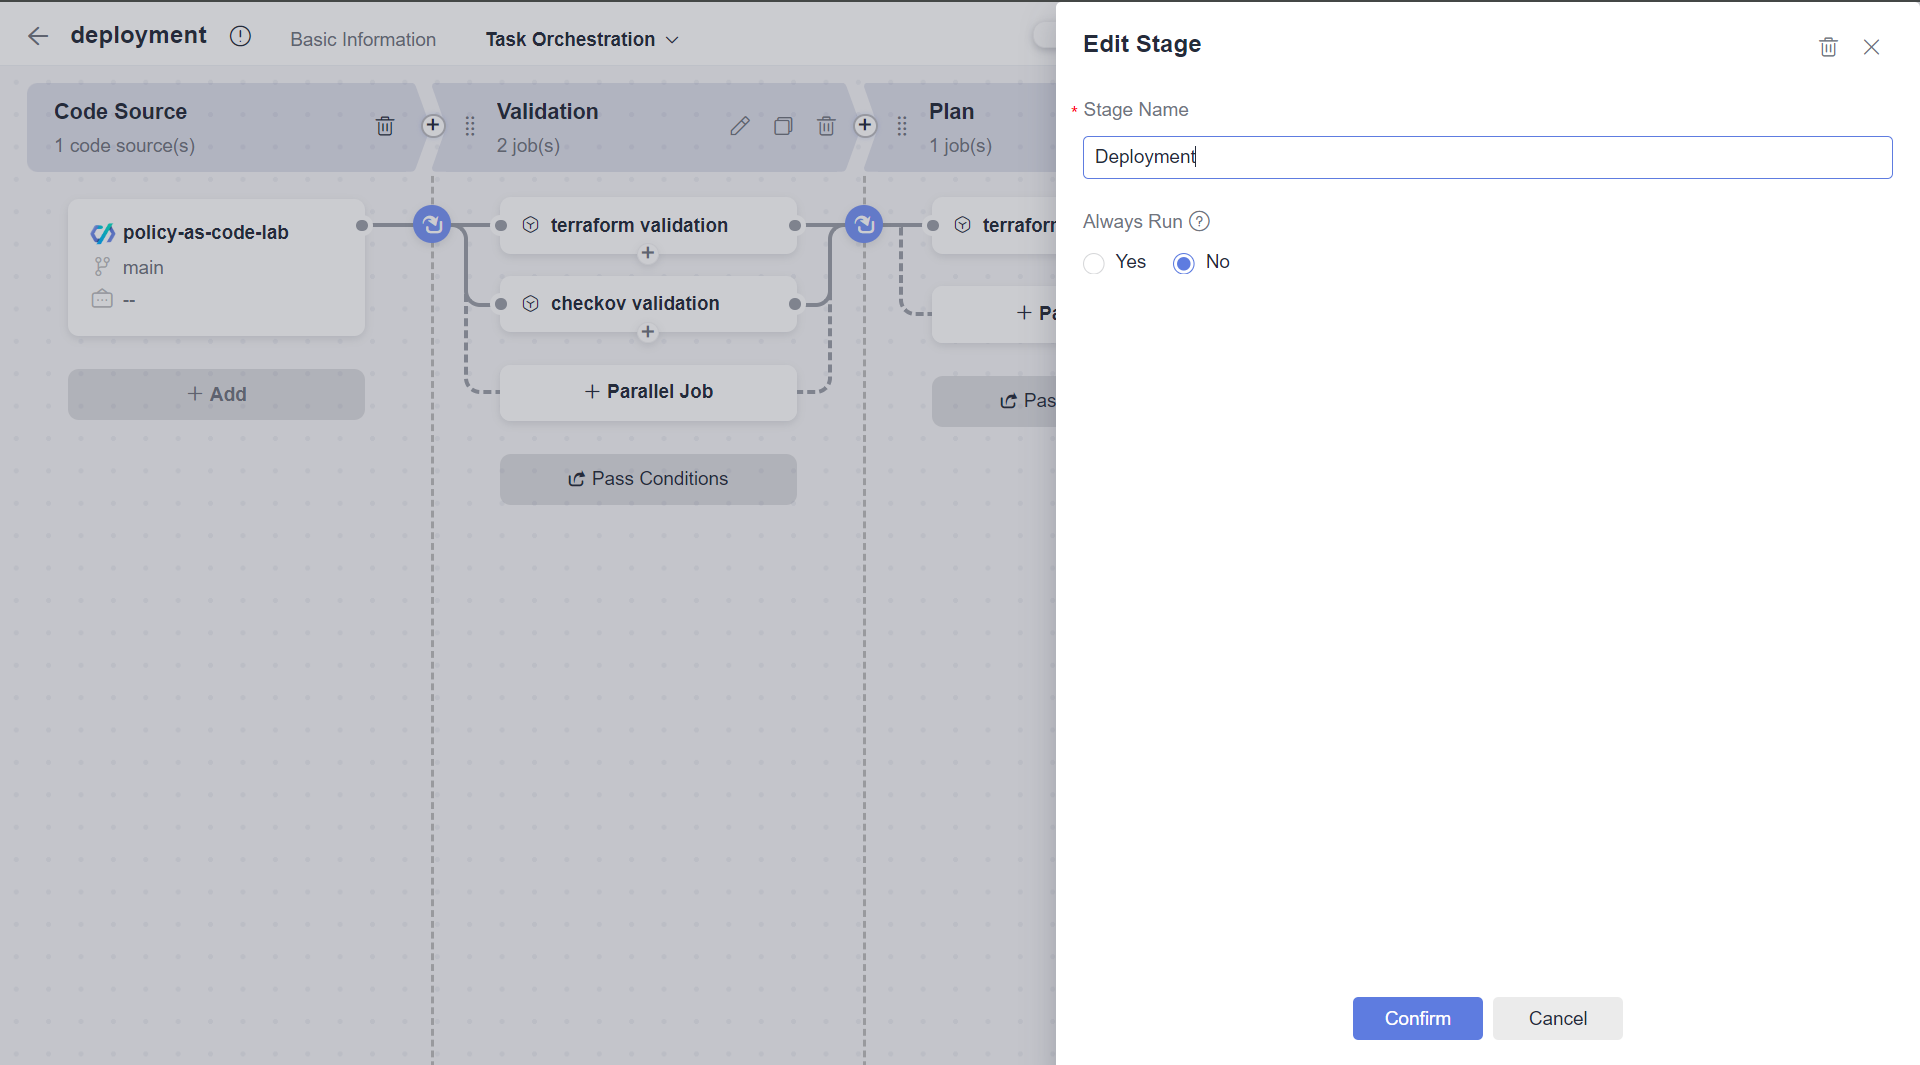
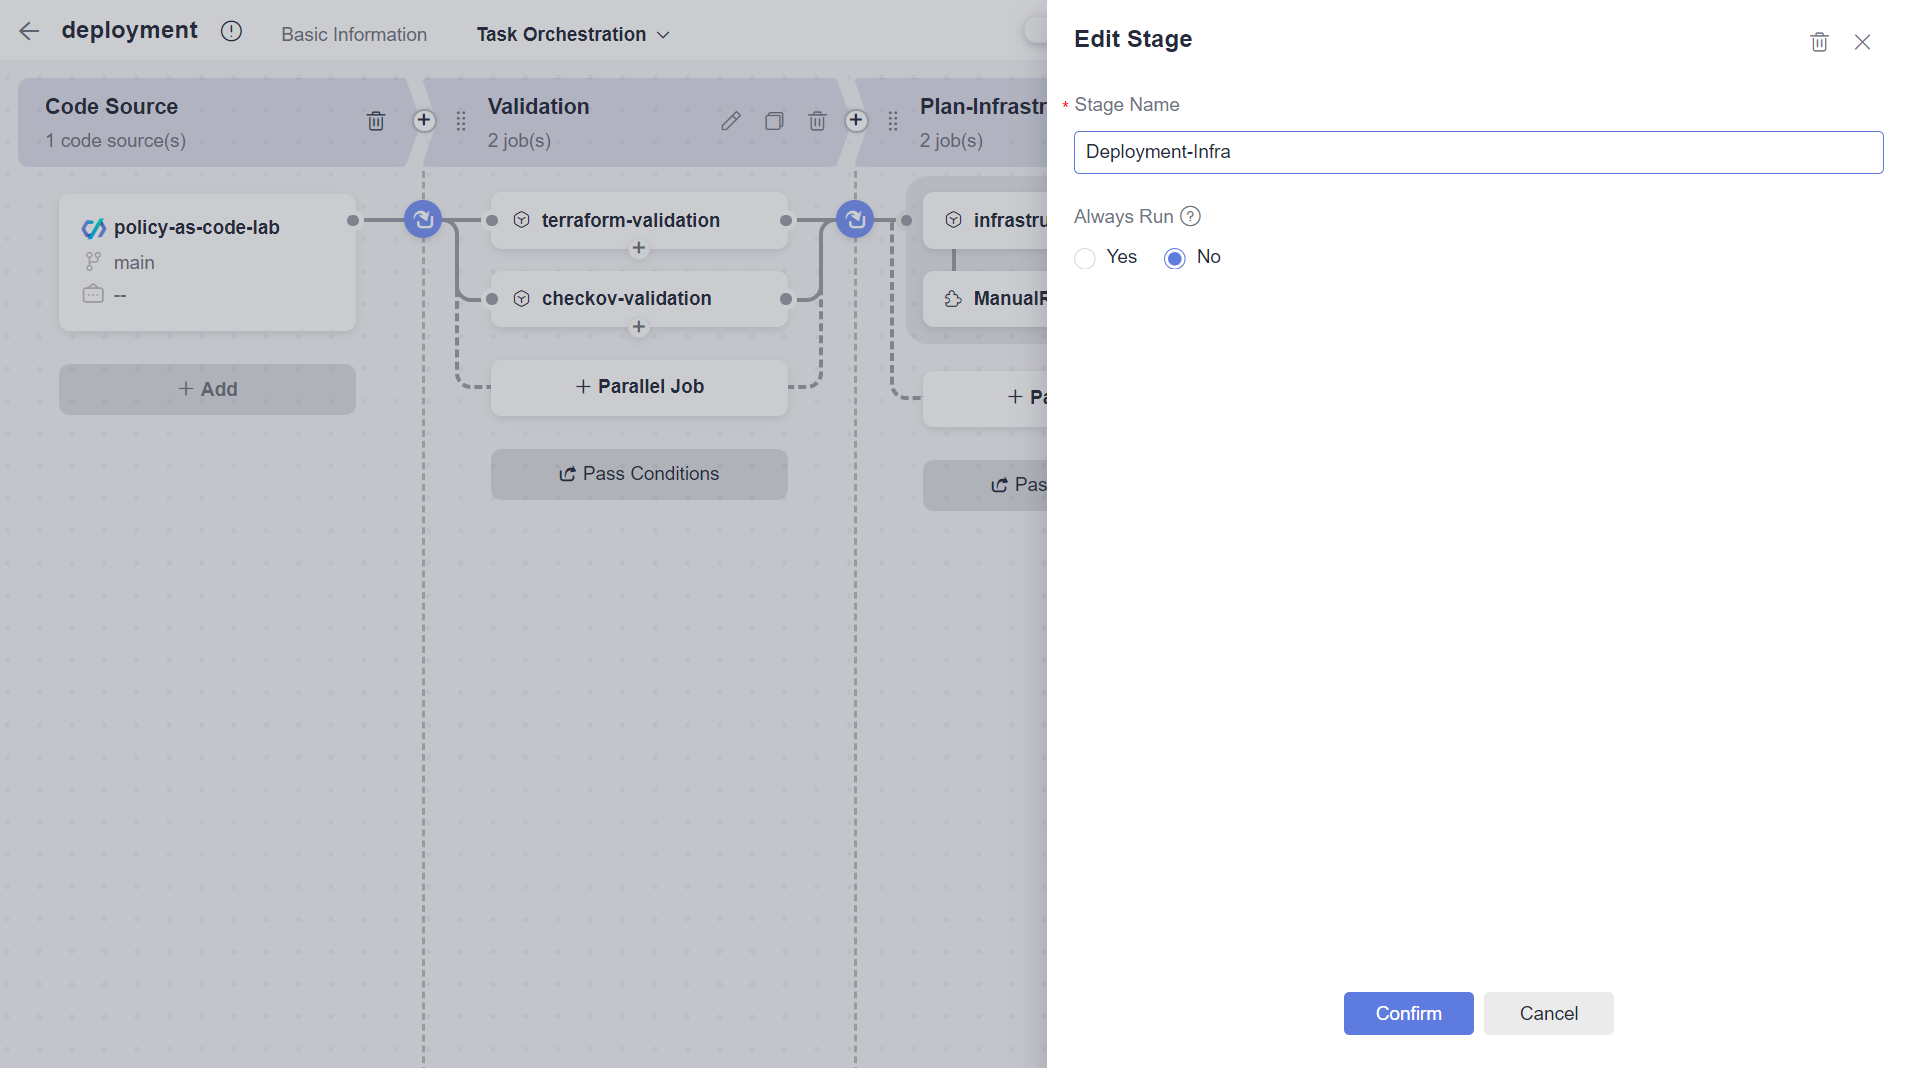
update

diff --git a/README.md b/README.md
@@ -173,28 +173,26 @@ In this workshop, Huawei Cloud OBS is used as the backend of terraform
    * `Action Name`: ```Terrafrom Plan Infrastructure```
    * `Image Address`: ```swr.ap-southeast-3.myhuaweicloud.com/core/ubuntu:codearts1```
    * `Commands`:
-      ````
+      ```
       export HW_ACCESS_KEY=${HW_ACCESS_KEY}
       export HW_SECRET_KEY=${HW_SECRET_KEY}
       export AWS_ACCESS_KEY_ID=${HW_ACCESS_KEY}
       export AWS_SECRET_ACCESS_KEY=${HW_SECRET_KEY}
       terraform -chdir=infrastructure init
-      terraform -chdir=infrastructure plan
-      terraform -chdir=application init
-      terraform -chdir=application plan
+      terraform -chdir=infrastructure -no-color plan
       ```
 ![terrafromplan4](./resources/9-infraterraformplan-3.png)
 4. Save the task
 
-## Creating Terraform Apply Job
+## Creating Terraform Apply Job - infrastructure
 1. On the `CodeArts Build` Page, Click the `...` icon on the `terraform-validation` job to Clone a new job
 ![Terraformplaninfra](./resources/9-infraterraformplan-1.png)
 
-2. Select `Basic Information` tab on the top of the page and Change the name to `terrafrom-apply`
+2. Select `Basic Information` tab on the top of the page and Change the name to `terrafrom-apply-infra`
 ![Terraformapply](./resources/10-infraterraappy-1.png)
 
 3. Select the `Build Actions` tab and the `Terrafrom Validation` job on the left side panel and Change the following the following parameters for the job
-   * `Action Name`: ```Terrafrom Apply```
+   * `Action Name`: ```Terrafrom Apply Infrastructure```
    * `Image Address`: ```swr.ap-southeast-3.myhuaweicloud.com/core/ubuntu:codearts1```
    * `Commands`:
       ````
@@ -204,10 +202,52 @@ In this workshop, Huawei Cloud OBS is used as the backend of terraform
       export AWS_SECRET_ACCESS_KEY=${HW_SECRET_KEY}
       terraform -chdir=infrastructure init
       terraform -chdir=infrastructure apply -auto-approve
+      ```
+![terraformplan1](./resources/10-infraterraappy-2.png)
+4. Save the task
+
+## Creating Terraform Plan Job - Application
+1. On the `CodeArts Build` Page, Click the `...` icon on the `terraform-validation` job to Clone a new job
+![Terraformplaninfra](./resources/9-infraterraformplan-1.png)
+
+2. Select `Basic Information` tab on the top of the page and Change the name to `terrafrom-plan-application`
+![Terraformplaninfra1](./resources/9-infraterraformplan-2.png)
+
+3. Select the `Build Actions` tab and the `Terrafrom Validation` job on the left side panel and Change the following the following parameters for the job
+   * `Action Name`: ```Terrafrom Plan Application```
+   * `Image Address`: ```swr.ap-southeast-3.myhuaweicloud.com/core/ubuntu:codearts1```
+   * `Commands`:
+      ```
+      export HW_ACCESS_KEY=${HW_ACCESS_KEY}
+      export HW_SECRET_KEY=${HW_SECRET_KEY}
+      export AWS_ACCESS_KEY_ID=${HW_ACCESS_KEY}
+      export AWS_SECRET_ACCESS_KEY=${HW_SECRET_KEY}
+      terraform -chdir=application init
+      terraform -chdir=application -no-color plan
+      ```
+![terrafromplan4](./resources/13-appplan-1.png)
+4. Save the task
+
+## Creating Terraform Apply Job - application
+1. On the `CodeArts Build` Page, Click the `...` icon on the `terraform-validation` job to Clone a new job
+![Terraformplaninfra](./resources/9-infraterraformplan-1.png)
+
+2. Select `Basic Information` tab on the top of the page and Change the name to `terrafrom-apply-application`
+![Terraformapply](./resources/10-infraterraappy-1.png)
+
+3. Select the `Build Actions` tab and the `Terrafrom Validation` job on the left side panel and Change the following the following parameters for the job
+   * `Action Name`: ```Terrafrom Apply Application```
+   * `Image Address`: ```swr.ap-southeast-3.myhuaweicloud.com/core/ubuntu:codearts1```
+   * `Commands`:
+      ````
+      export HW_ACCESS_KEY=${HW_ACCESS_KEY}
+      export HW_SECRET_KEY=${HW_SECRET_KEY}
+      export AWS_ACCESS_KEY_ID=${HW_ACCESS_KEY}
+      export AWS_SECRET_ACCESS_KEY=${HW_SECRET_KEY}
       terraform -chdir=application init
       terraform -chdir=application apply -auto-approve
       ```
-![terraformplan1](./resources/10-infraterraappy-2.png)
+![terraformplan1](./resources/13-appplan-2.png)
 4. Save the task
 
 ## Creating Deployment Pipeline
@@ -257,41 +297,85 @@ In this workshop, Huawei Cloud OBS is used as the backend of terraform
    * Repository: `policy-as-code-lab`
 ![pipelinevalidation3](./resources/6-pipeline-19.png)
 
-12. On the pipeline configuration page, Click `+Stage` to create a `Plan` stage
+12. On the pipeline configuration page, Click `+Stage` to create a `Plan-Infrastructure` stage
 ![pipelinevalidation3](./resources/6-pipeline-20.png)
 
 ![pipelinevalidation4](./resources/6-pipeline-21.png)
 
-13. Under the `Plan` stage, add a `terraform plan` job, to configure the job with the following parameters:
-   * Name: `terraform plan`
-   * Select Task: `terraform-plan`
+13. Under the `Plan-Infrastructure` stage, add a `terraform plan` job, to configure the job with the following parameters:
+   * Name: `infrastructure terraform plan`
+   * Select Task: `terraform-plan-infra`
    * Repository: `policy-as-code-lab`
    * HW_ACCESS_KEY: `${HW_ACCESS_KEY}`
    * HW_SECRET_KEY: `${HW_SECRET_KEY}`
 
 ![pipelinevalidation5](./resources/6-pipeline-22.png)
 
-14. On the pipeline configuration page, Click `+Stage` to create a `Deployment` stage
+14. Click `+` icon on the bottom of `infrastructure terraform plan` task to add a serial task
+![AddManualApprovde](./resources/14-manualapprove-1.png)
+
+15. On the job Configuration page, Select `ManualReview` job
+![AddManualApprove1](./resources/14-manualapprove-2.png)
+
+16. Changing the following parameter for `ManualReview` job
+   * Name: `ManualReview-Infra`
+   * Reviewer: Select account admin as reviwer
+   * Review Duration: `2 Hours`
+![AddManualApprove2](./resources/14-manualapprove-3.png)
+
+
+17. On the pipeline configuration page, Click `+Stage` to create a `Deployment-Infra` stage
 ![pipelinevalidation3](./resources/6-pipeline-23.png)
 
-15. Under the `Deployment` stage, add a `terraform apply` job, to configure the job with the following parameters:
+15. Under the `Deployment-Infra` stage, add a `terraform apply` job, to configure the job with the following parameters:
    * Name: `terraform apply`
-   * Select Task: `terraform-apply`
+   * Select Task: `terraform-apply-infra`
    * Repository: `policy-as-code-lab`
    * HW_ACCESS_KEY: `${HW_ACCESS_KEY}`
    * HW_SECRET_KEY: `${HW_SECRET_KEY}`
 ![pipelinevalidation3](./resources/6-pipeline-24.png)
 
-16. On the pipeline page, Click `Save and Execute` to run the pipeline
+16. On the pipeline configuration page, Click `+Stage` to create a `Plan-Application` stage
+![pipelinevalidation3](./resources/6-pipeline-20.png)
+
+17. Under the `Plan-Application` stage, add a `terraform plan` job, to configure the job with the following parameters:
+   * Name: `application terraform plan`
+   * Select Task: `terraform-plan-application`
+   * Repository: `policy-as-code-lab`
+   * HW_ACCESS_KEY: `${HW_ACCESS_KEY}`
+   * HW_SECRET_KEY: `${HW_SECRET_KEY}`
+![appplan](./resources/15-appplan-1.png)
+
+18. Click `+` icon on the bottom of `application terraform plan` task to add a serial task
+![AddManualApprovde](./resources/14-manualapprove-4.png)
+
+19. On the job Configuration page, Select `ManualReview` job
+![AddManualApprove1](./resources/14-manualapprove-2.png)
+
+20. Changing the following parameter for `ManualReview` job
+   * Name: `ManualReview-Application`
+   * Reviewer: Select account admin as reviwer
+   * Review Duration: `2 Hours`
+![AddManualApprove2](./resources/14-manualapprove-5.png)
+
+21. On the pipeline configuration page, Click `+Stage` to create a `Deployment-Application` stage
+![pipelinevalidation3](./resources/15-appapply-1.png)
+
+22. Under the `Deployment-Application` stage, add a `terraform apply` job, to configure the job with the following parameters:
+   * Name: `terraform apply application`
+   * Select Task: `terraform-apply-application`
+   * Repository: `policy-as-code-lab`
+   * HW_ACCESS_KEY: `${HW_ACCESS_KEY}`
+   * HW_SECRET_KEY: `${HW_SECRET_KEY}`
+![pipelinevalidation3](./resources/15-appapply-2.png)
+
+23. On the pipeline page, Click `Save and Execute` to run the pipeline
 ![pipelinevalidation3](./resources/6-pipeline-25.png)
 
 ![pipelinevalidation3](./resources/6-pipeline-26.png)
 
-17. The pipeline is not ready to run due to a serials of policy violation, You job is to fix the pipeline and deploy the application
+24. The pipeline is not ready to run due to a serials of policy violation, You job is to fix the pipeline and deploy the application
 ![PipelineResult](./resources/11-result-1.png)
 
-18.
-
-# Solution
 
 
